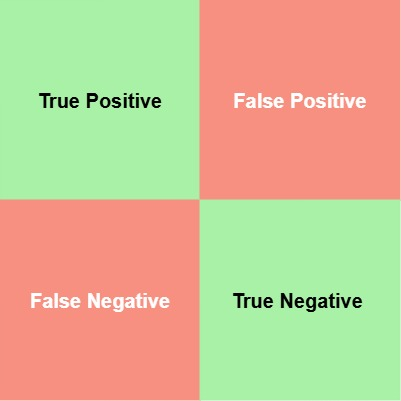
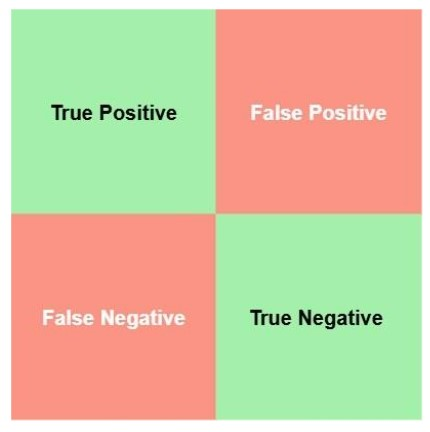
gg

diff --git a/Code/Metric_calculation.py b/Code/Metric_calculation.py
@@ -61,3 +61,8 @@ print_results("User's Original Distribution", metrics_1, tp_1, fp_1, tn_1, fn_1)
 tp_2, fp_2, tn_2, fn_2 = 24, 5, 25, 4
 metrics_2 = calculate_metrics(tp_2, fp_2, tn_2, fn_2)
 print_results("New Illustrative Distribution (High Precision, Moderate Sensitivity)", metrics_2, tp_2, fp_2, tn_2, fn_2)
+
+# Exercise solution
+tp_2, fp_2, tn_2, fn_2 = 90, 10, 85, 15
+metrics_2 = calculate_metrics(tp_2, fp_2, tn_2, fn_2)
+print_results("New Illustrative Distribution (High Precision, Moderate Sensitivity)", metrics_2, tp_2, fp_2, tn_2, fn_2)
